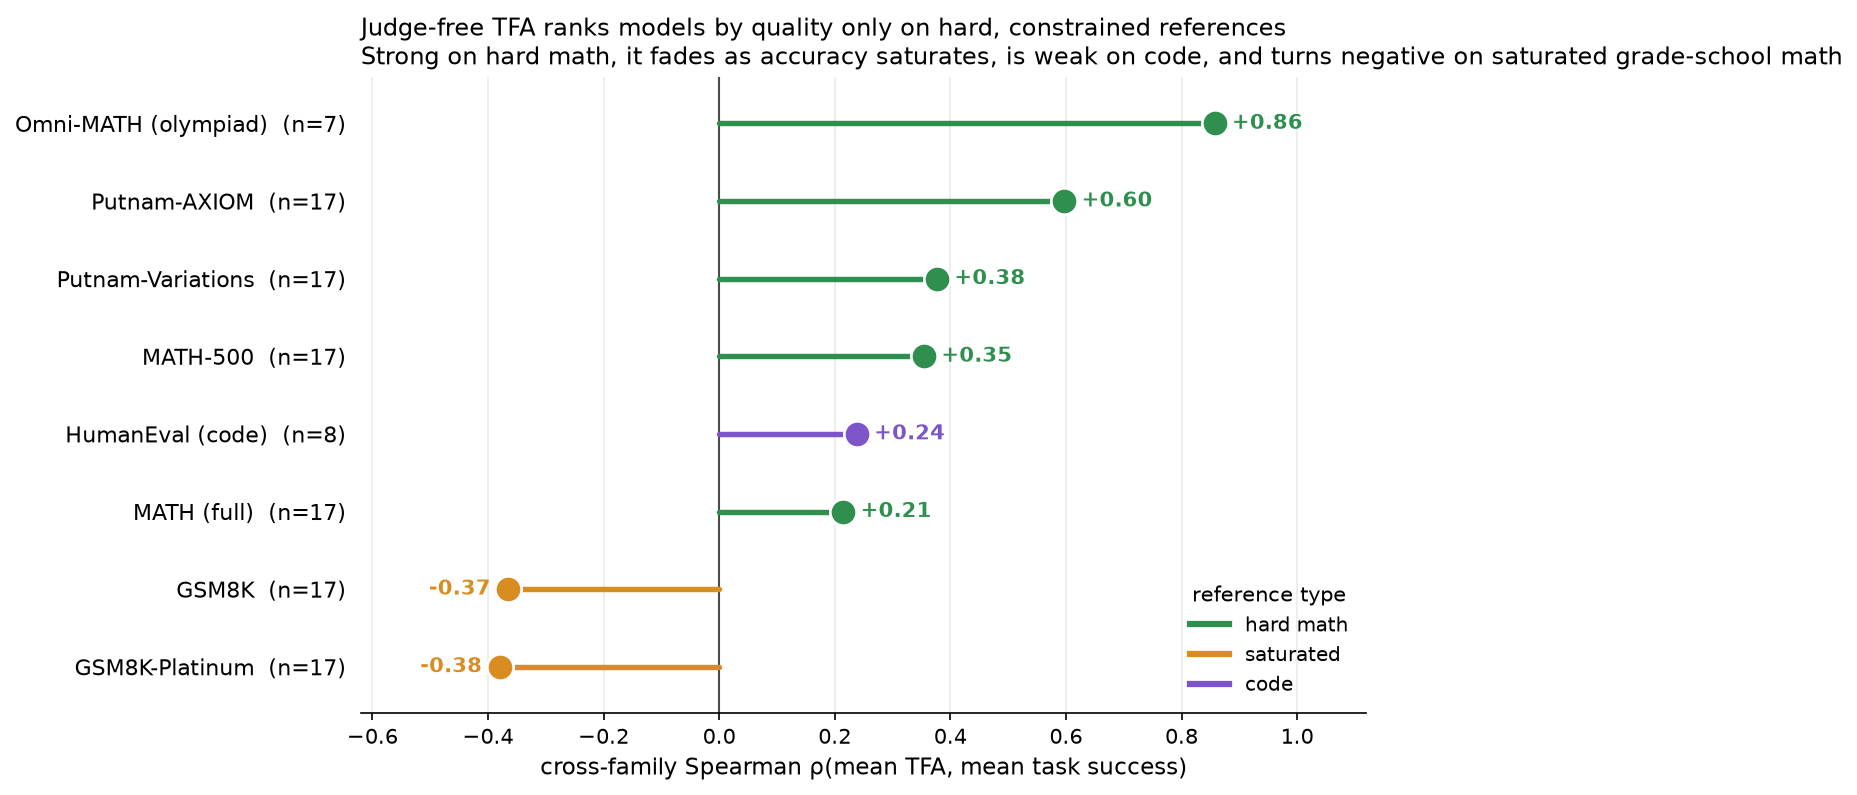
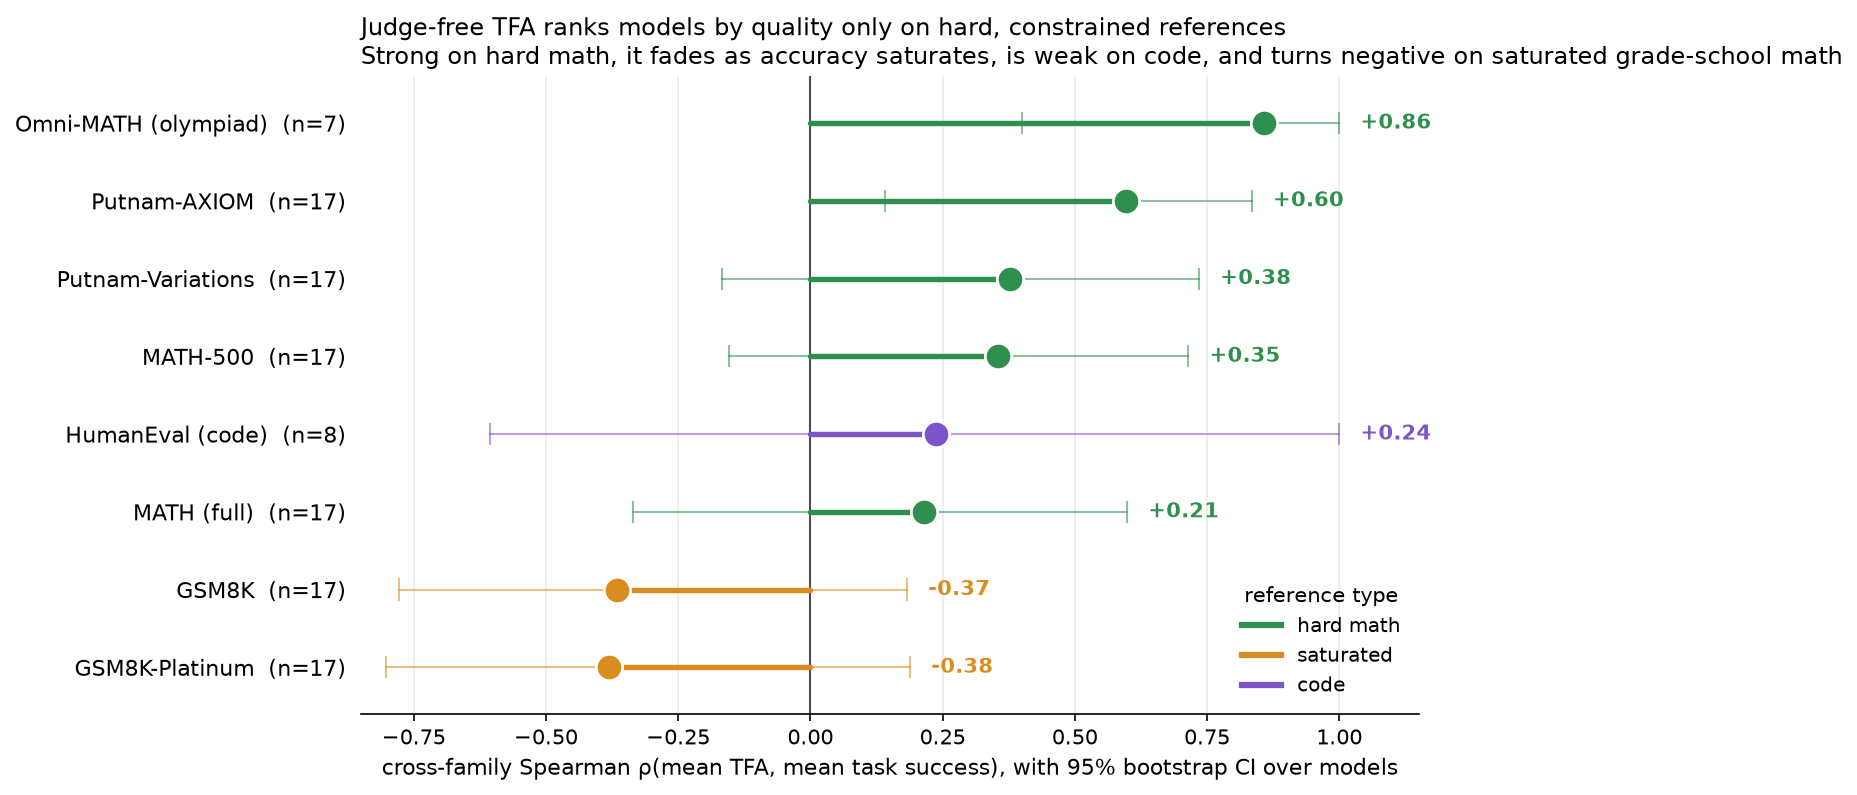
paper: add bootstrap CIs to fig6 lollipop; fix fig1/fig2 filename-number mismatch
POLISH (broad critic): fig6 now shows 95% bootstrap CIs over models (wide at
n=7-17, honestly), with a caption note to read ordering/sign not point estimates.
Rename fig2_model_level->fig1_model_level and fig1_difficulty_gradient->
fig2_difficulty_gradient so filenames match the in-text figure numbers.

diff --git a/experiments/tfa-vs-judge/scripts/make_boundary_figs.py b/experiments/tfa-vs-judge/scripts/make_boundary_figs.py
@@ -70,20 +70,32 @@ def rho(pm):
     t = np.array([v["tfa"] for v in pm.values()]); s = np.array([v["acc"] for v in pm.values()])
     return stats.spearmanr(t, s).statistic
 
+def rho_ci(pm, nb=4000):
+    # bootstrap the cross-family Spearman by resampling models (the units), 95% percentile CI
+    t = np.array([v["tfa"] for v in pm.values()]); s = np.array([v["acc"] for v in pm.values()])
+    n = len(t); vals = []
+    rng = np.random.default_rng(0)
+    for _ in range(nb):
+        idx = rng.integers(0, n, n)
+        if len(set(t[idx])) < 2: continue
+        vals.append(stats.spearmanr(t[idx], s[idx]).statistic)
+    return np.nanpercentile(vals, 2.5), np.nanpercentile(vals, 97.5)
+
 # ---- Figure 6: boundary-map lollipop --------------------------------------
-stat = sorted([(lab, rho(pm), len(pm)) for lab, pm in permodel.items()], key=lambda x: x[1])
-fig, ax = plt.subplots(figsize=(9.4, 5.4))
+stat = sorted([(lab, rho(pm), len(pm), rho_ci(pm)) for lab, pm in permodel.items()], key=lambda x: x[1])
+fig, ax = plt.subplots(figsize=(9.8, 5.4))
 ys = np.arange(len(stat))
-for y, (lab, r, n) in zip(ys, stat):
+for y, (lab, r, n, ci) in zip(ys, stat):
     c = RCOL[regime[lab]]
     ax.plot([0, r], [y, y], color=c, lw=2.6, zorder=2, solid_capstyle="round")
+    ax.plot([ci[0], ci[1]], [y, y], color=c, lw=1.0, alpha=0.55, zorder=2)   # 95% bootstrap CI
+    for b in ci: ax.plot([b, b], [y - 0.13, y + 0.13], color=c, lw=1.0, alpha=0.55, zorder=2)
     ax.scatter([r], [y], s=160, color=c, zorder=3, edgecolors="white", linewidths=1.3)
-    ax.text(r + (0.03 if r >= 0 else -0.03), y, f"{r:+.2f}", va="center",
-            ha="left" if r >= 0 else "right", fontsize=10, color=c, fontweight="bold")
+    ax.text(ci[1] + 0.04, y, f"{r:+.2f}", va="center", ha="left", fontsize=10, color=c, fontweight="bold")
 ax.axvline(0, color="#333", lw=1.0, zorder=1)
-ax.set_yticks(ys); ax.set_yticklabels([f"{lab}  (n={n})" for lab, _, n in stat], fontsize=10.5)
-ax.set_xlabel("cross-family Spearman ρ(mean TFA, mean task success)", fontsize=11)
-ax.set_xlim(-0.62, 1.12); ax.set_ylim(-0.6, len(stat) - 0.4)
+ax.set_yticks(ys); ax.set_yticklabels([f"{lab}  (n={n})" for lab, _, n, _ in stat], fontsize=10.5)
+ax.set_xlabel("cross-family Spearman ρ(mean TFA, mean task success), with 95% bootstrap CI over models", fontsize=10.5)
+ax.set_xlim(-0.85, 1.15); ax.set_ylim(-0.6, len(stat) - 0.4)
 ax.grid(axis="x", alpha=0.25)
 for sp in ("top", "right", "left"): ax.spines[sp].set_visible(False)
 ax.tick_params(left=False)
@@ -95,7 +107,7 @@ ax.set_title("Judge-free TFA ranks models by quality only on hard, constrained r
 fig.tight_layout()
 fig.savefig(f"{OUT}/fig6_cross_family.png", dpi=150, bbox_inches="tight"); plt.close(fig)
 print("WROTE fig6_cross_family.png")
-for lab, r, n in reversed(stat): print(f"   {lab:24s} rho={r:+.2f} n={n}")
+for lab, r, n, ci in reversed(stat): print(f"   {lab:24s} rho={r:+.2f} [{ci[0]:+.2f},{ci[1]:+.2f}] n={n}")
 
 # ---- Figure 7: mechanism (MATH-500 holds vs GSM8K scrambles) --------------
 fig, axes = plt.subplots(1, 2, figsize=(13.5, 5.7))

diff --git a/experiments/tfa-vs-judge/scripts/make_figures.py b/experiments/tfa-vs-judge/scripts/make_figures.py
@@ -95,7 +95,7 @@ ax.set_ylabel("item-level partial ρ(TFA, judge | correct)")
 ax.set_ylim(-0.16, 0.30)
 ax.set_title("Per-item TFA→judge signal by family: ~0 on MATH, small on GSM8K, largest on Putnam", fontsize=11)
 ax.grid(axis="y", alpha=0.3)
-fig.tight_layout(); fig.savefig(f"{OUT}/fig1_difficulty_gradient.png", dpi=150); plt.close(fig)
+fig.tight_layout(); fig.savefig(f"{OUT}/fig2_difficulty_gradient.png", dpi=150); plt.close(fig)
 
 # ---- Fig 2: model-level scatter mean-TFA vs accuracy across ladder ----
 fig, ax = plt.subplots(figsize=(7, 5))
@@ -104,7 +104,7 @@ for d in present:
 ax.set_xlabel("mean TFA (argmax gold-token match)"); ax.set_ylabel("free-gen accuracy")
 ax.set_title("Model-level: mean-TFA tracks accuracy across the ladder (ρ = +0.6 to +1.0)")
 ax.legend(fontsize=8, loc="lower right"); ax.grid(alpha=0.3)
-fig.tight_layout(); fig.savefig(f"{OUT}/fig2_model_level.png", dpi=150); plt.close(fig)
+fig.tight_layout(); fig.savefig(f"{OUT}/fig1_model_level.png", dpi=150); plt.close(fig)
 
 # ---- Fig 3: TFA saturation — range bars vs accuracy ----
 fig, ax = plt.subplots(figsize=(8, 4))

diff --git a/experiments/tfa-vs-judge/paper/PAPER.md b/experiments/tfa-vs-judge/paper/PAPER.md
@@ -45,11 +45,11 @@ Our central question is whether TFA tracks judged quality *beyond* simply being 
 
 **TFA is an excellent model ranker.** Averaged over a dataset, TFA orders the five models the same way accuracy and the judge do, with correlations from +0.60 to +1.00 (Figure 1). The correlation is strongest on the hardest data: on Putnam, mean TFA and mean judge score agree perfectly (ρ = +1.00). This inverts a natural worry, that TFA would be useless once models are weak, because weak models on hard problems are exactly where TFA has the most room to separate them. Where TFA weakens (down to +0.60) is the opposite regime: easy, near-saturated data where all five models look alike.
 
-![Model-level: mean TFA tracks accuracy across the ladder on every dataset.](figs/fig2_model_level.png)
+![Model-level: mean TFA tracks accuracy across the ladder on every dataset.](figs/fig1_model_level.png)
 
 **But TFA barely grades individual solutions, and only on hard data.** The per-item picture (Figure 2) is a story of three dataset families, not a smooth trend. On MATH, both the standard 500-problem set and the larger algebra sample, the partial correlation is statistically indistinguishable from zero; TFA carries no information about which correct solution the judge prefers. On GSM8K it is small but real (+0.12). Only on Putnam does it become substantial (+0.22), and it stays positive under length control throughout. Even the best case is a weak correlate, not a grader: a ρ of 0.22 explains under 5% of the variance in judged quality.
 
-![The per-item TFA signal is a dataset-family effect: zero on MATH, small on GSM8K, largest on Putnam.](figs/fig1_difficulty_gradient.png)
+![The per-item TFA signal is a dataset-family effect: zero on MATH, small on GSM8K, largest on Putnam.](figs/fig2_difficulty_gradient.png)
 
 **The pattern is explained by saturation, not accuracy.** Notice that GSM8K (75% accuracy) has a larger item-level signal than MATH-full (77% accuracy): difficulty as measured by accuracy is not what matters. What matters is how much room TFA has to move. On easy data all five models reproduce most gold tokens, so their mean TFA sits in a narrow 0.03-wide band (Figure 3); the metric is pinned near its ceiling and cannot discriminate. On Putnam the band widens to 0.07, and the per-item signal appears alongside it. TFA grades reasoning only where it is not saturated.
 
@@ -79,7 +79,7 @@ The second judge is uniformly a touch more conservative: its positive signals si
 
 TFA ranks the Qwen ladder well; the question is whether that survives beyond one model family. Because TFA is a statistic of a model's own tokenizer and log-probabilities, family-specificity is a live worry, so we ran the full sweep behind this paper: seventeen models in seven families, with size ladders for Mistral (7B, Ministral-8B, Small-22B), Phi (3.5-mini, 3-medium, Phi-4), and OLMo-2 (7B, 13B, 32B), and three math-specialized models (Qwen2.5-Math, DeepSeek-Math, Mathstral), alongside the Qwen ladder, on the six math datasets plus an olympiad set (Omni-MATH) and a code benchmark (HumanEval). The answer is not yes or no but a boundary, and the boundary is set by how constrained the reference is and whether the models share its style (Figures 6 and 7).
 
-![The judge-free boundary at the model level. Each bar is the cross-family Spearman correlation between a model's mean TFA and its mean task success, pooled over every model run on that dataset. TFA ranks models strongly on hard, constrained references (Omni-MATH +0.86, Putnam +0.60), fades as accuracy saturates (MATH-500 +0.35, MATH-full +0.21), is only weakly positive on code where one gold program cannot stand in for many valid ones (HumanEval +0.24), and turns negative on the most saturated grade-school math (GSM8K −0.37, GSM8K-Platinum −0.38).](figs/fig6_cross_family.png)
+![The judge-free boundary at the model level. Each bar is the cross-family Spearman correlation between a model's mean TFA and its mean task success, pooled over every model run on that dataset. TFA ranks models strongly on hard, constrained references (Omni-MATH +0.86, Putnam +0.60), fades as accuracy saturates (MATH-500 +0.35, MATH-full +0.21), is only weakly positive on code where one gold program cannot stand in for many valid ones (HumanEval +0.24), and turns negative on the most saturated grade-school math (GSM8K −0.37, GSM8K-Platinum −0.38). Whiskers are 95% bootstrap CIs over models; with only 7 to 17 models per row they are wide, so read the ordering and the sign pattern (hard math positive, saturated negative) rather than any single point estimate.](figs/fig6_cross_family.png)
 
 **Within a family, TFA ranks, but not always.** It ranks the Qwen ladder (+0.6 to +1.0) and the Mistral ladder (+1.0) cleanly on every dataset. But Phi and OLMo invert on the easy, saturated sets: on GSM8K the better Phi models have the lower TFA (Pearson −0.97), because their stronger members answer in an increasingly non-reference style and predict the terse gold worse even as they solve more. Even the within-family guarantee holds only when a family's models share a stable style close to the reference. The full within-family table is in the appendix.
 
